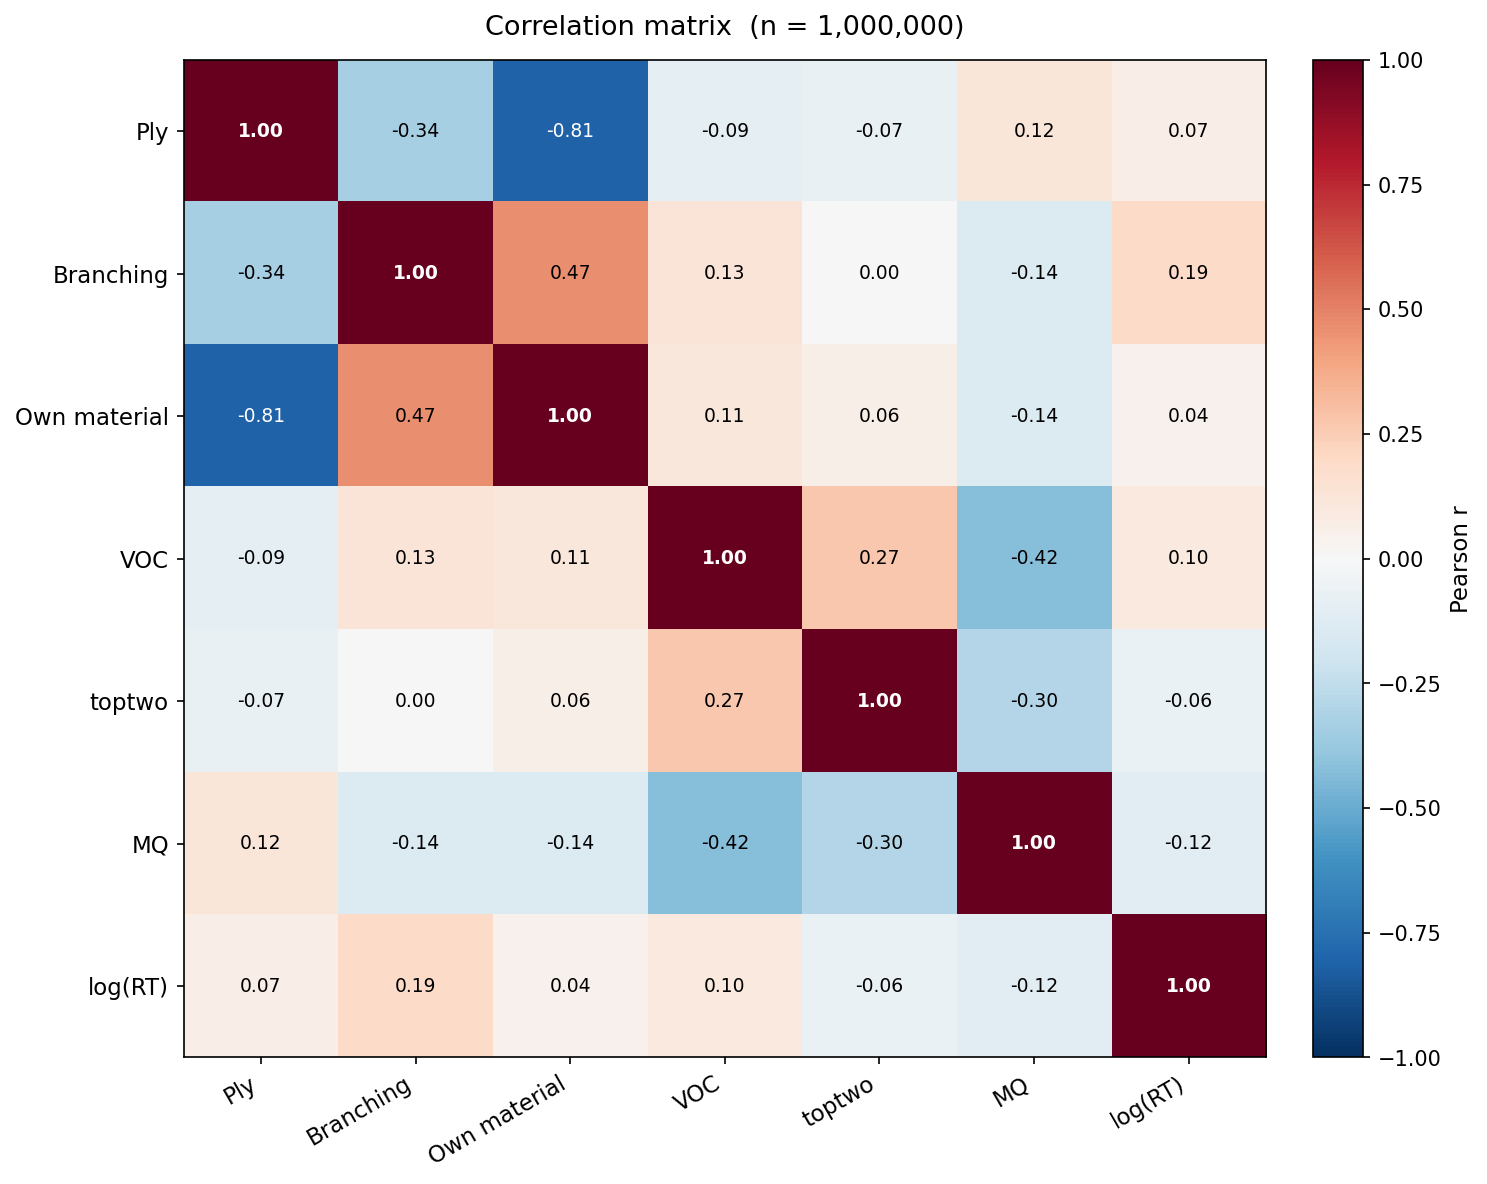
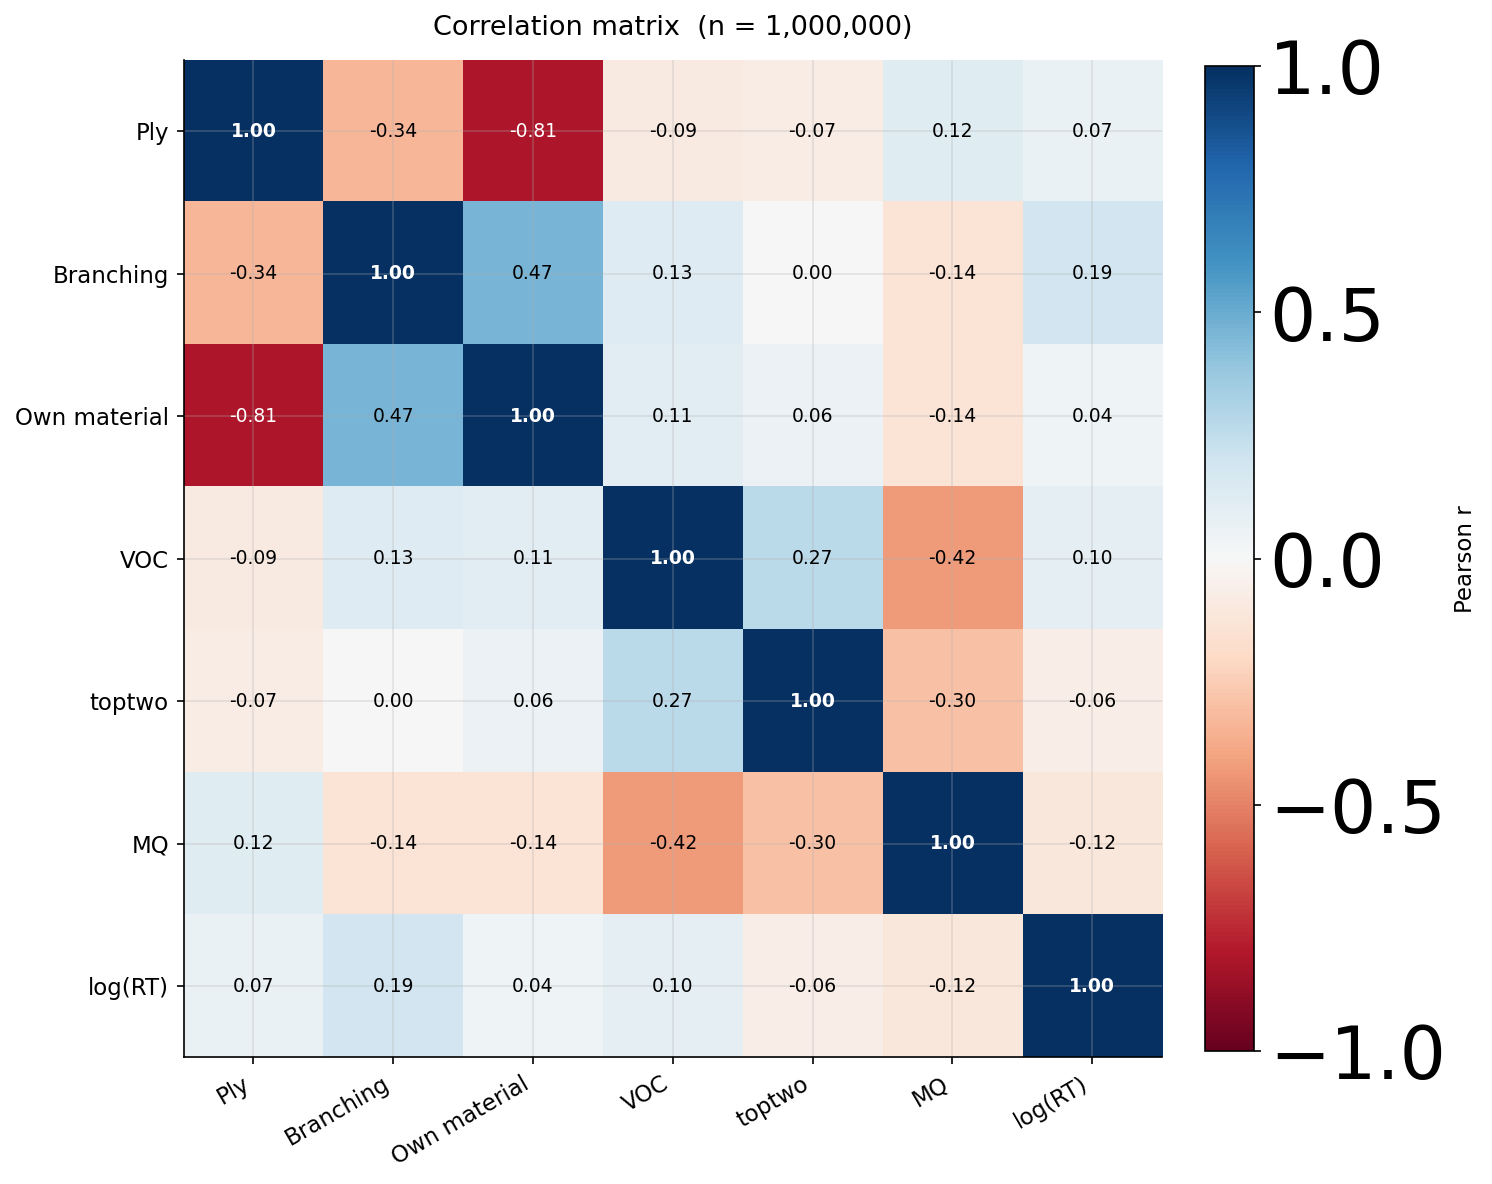
slides: flip corr matrix colors, table panel, bold headers, rewrite summary
- correlation_matrix: RdBu_r → RdBu (positive = blue, negative = red)
- Correlation matrix right panel: bulleted divs → color-coded r table
  (blue = positive, red shades = negative magnitude)
- Engine quantities table: bold headers, max-w-2xl to reduce width
- Summary: key results with emoji markers first; open questions box
  highlighted in amber including VOC_budget vs depth as explicit next step

diff --git a/human_analytics/voc_mq_analysis.py b/human_analytics/voc_mq_analysis.py
@@ -146,7 +146,7 @@ def plot_correlation_matrix(conn: duckdb.DuckDBPyConnection, output_path: str) -
 
     apply_poster_style()
     fig, ax = plt.subplots(figsize=(10, 8))
-    im = ax.imshow(corr.values, cmap="RdBu_r", vmin=-1, vmax=1, aspect="auto")
+    im = ax.imshow(corr.values, cmap="RdBu", vmin=-1, vmax=1, aspect="auto")
     ax.set_xticks(range(n_vars))
     ax.set_xticklabels(corr.columns, fontsize=11, rotation=30, ha="right")
     ax.set_yticks(range(n_vars))

diff --git a/human_analytics/presentations/lmcos-overview/slides.md b/human_analytics/presentations/lmcos-overview/slides.md
@@ -146,26 +146,26 @@ math: katex
 
 # What the engine gives us
 
-<table class="text-xs w-full mt-6 border-collapse">
+<table class="text-xs max-w-2xl mt-6 border-collapse">
   <thead>
     <tr class="border-b border-gray-300">
-      <th class="text-left py-2 pr-6 font-semibold">Quantity</th>
-      <th class="text-left py-2 pr-6 font-semibold">Formula</th>
-      <th class="text-left py-2 font-semibold">Interpretation</th>
+      <th class="text-left py-2 pr-5 font-bold">Quantity</th>
+      <th class="text-left py-2 pr-5 font-bold">Formula</th>
+      <th class="text-left py-2 font-bold">Interpretation</th>
     </tr>
   </thead>
   <tbody class="text-[11px] opacity-90">
-    <tr><td class="py-1.5 pr-6 font-mono">e_win_best</td><td class="pr-6">V<sub>deep</sub>(a<sub>deep</sub>)</td><td>Win prob of objectively best move</td></tr>
-    <tr><td class="py-1.5 pr-6 font-mono">e_win_second_best</td><td class="pr-6">V<sub>deep</sub>(rank-2)</td><td>Win prob of second-best move</td></tr>
-    <tr><td class="py-1.5 pr-6 font-mono">e_win_taken</td><td class="pr-6">V<sub>deep</sub>(move played)</td><td>Win prob of the actual move</td></tr>
+    <tr><td class="py-1.5 pr-5 font-mono">e_win_best</td><td class="pr-5">V<sub>deep</sub>(a<sub>deep</sub>)</td><td>Win prob of objectively best move</td></tr>
+    <tr><td class="py-1.5 pr-5 font-mono">e_win_second_best</td><td class="pr-5">V<sub>deep</sub>(rank-2)</td><td>Win prob of second-best move</td></tr>
+    <tr><td class="py-1.5 pr-5 font-mono">e_win_taken</td><td class="pr-5">V<sub>deep</sub>(move played)</td><td>Win prob of the actual move</td></tr>
     <tr class="border-t border-gray-200 text-accent font-semibold">
-      <td class="py-1.5 pr-6 font-mono">VOC</td><td class="pr-6">e_win_best − V<sub>deep</sub>(a<sub>shallow</sub>)</td><td>Gain from deep over shallow best &nbsp;(≥ 0)</td>
+      <td class="py-1.5 pr-5 font-mono">VOC</td><td class="pr-5">e_win_best − V<sub>deep</sub>(a<sub>shallow</sub>)</td><td>Gain from deep over shallow best &nbsp;(≥ 0)</td>
     </tr>
     <tr class="text-accent font-semibold">
-      <td class="py-1.5 pr-6 font-mono">MQ</td><td class="pr-6">e_win_taken − e_win_best</td><td>How suboptimal was the move played &nbsp;(≤ 0)</td>
+      <td class="py-1.5 pr-5 font-mono">MQ</td><td class="pr-5">e_win_taken − e_win_best</td><td>How suboptimal was the move played &nbsp;(≤ 0)</td>
     </tr>
     <tr class="text-accent font-semibold">
-      <td class="py-1.5 pr-6 font-mono">toptwo</td><td class="pr-6">e_win_best − e_win_second_best</td><td>How decisive is the best move &nbsp;(≥ 0)</td>
+      <td class="py-1.5 pr-5 font-mono">toptwo</td><td class="pr-5">e_win_best − e_win_second_best</td><td>How decisive is the best move &nbsp;(≥ 0)</td>
     </tr>
   </tbody>
 </table>
@@ -246,14 +246,27 @@ math: katex
 
 # Correlation matrix
 
-<div class="grid grid-cols-[62fr_38fr] gap-8 items-center h-[calc(100%-3.5rem)]">
+<div class="grid grid-cols-[60fr_40fr] gap-8 items-center h-[calc(100%-3.5rem)]">
   <img class="w-full object-contain max-h-[72vh]" src="/figures/correlation_matrix.png" />
-  <div class="space-y-3 text-xs leading-relaxed">
-    <div class="font-semibold text-sm mb-2">n = 1,000,000 · Pearson r</div>
-    <div class="p-2 bg-neutral-soft rounded text-[11px]"><b>VOC ↔ MQ</b> r = −0.42 — positions where deep search helps are also ones where humans blunder more</div>
-    <div class="p-2 bg-neutral-soft rounded text-[11px]"><b>toptwo ↔ MQ</b> r = −0.30 — decisive positions penalise errors more heavily</div>
-    <div class="p-2 bg-neutral-soft rounded text-[11px]"><b>Ply ↔ own material</b> r = −0.81 — as expected: pieces leave the board over the game</div>
-    <div class="p-2 bg-neutral-soft rounded text-[11px]"><b>log(RT)</b> correlates positively with branching (0.20) and VOC (0.10); negatively with toptwo (−0.06) and MQ (−0.12)</div>
+  <div>
+    <div class="text-[10px] font-bold uppercase tracking-widest opacity-50 mb-2">n = 1,000,000 · Pearson r</div>
+    <table class="text-xs w-full border-collapse">
+      <thead>
+        <tr class="border-b border-gray-200">
+          <th class="text-left py-1 pr-3 font-bold">Pair</th>
+          <th class="text-right py-1 font-bold">r</th>
+        </tr>
+      </thead>
+      <tbody>
+        <tr><td class="py-1 pr-3 opacity-80">Ply ↔ own material</td><td class="text-right font-mono text-red-500 font-semibold">−0.81</td></tr>
+        <tr><td class="py-1 pr-3 opacity-80">VOC ↔ MQ</td><td class="text-right font-mono text-red-500 font-semibold">−0.42</td></tr>
+        <tr><td class="py-1 pr-3 opacity-80">toptwo ↔ MQ</td><td class="text-right font-mono text-red-400 font-semibold">−0.30</td></tr>
+        <tr class="border-t border-gray-100"><td class="py-1 pr-3 opacity-80">branching ↔ log(RT)</td><td class="text-right font-mono text-blue-600 font-semibold">+0.20</td></tr>
+        <tr><td class="py-1 pr-3 opacity-80">VOC ↔ log(RT)</td><td class="text-right font-mono text-blue-400 font-semibold">+0.10</td></tr>
+        <tr><td class="py-1 pr-3 opacity-80">MQ ↔ log(RT)</td><td class="text-right font-mono text-red-300 font-semibold">−0.12</td></tr>
+        <tr><td class="py-1 pr-3 opacity-80">toptwo ↔ log(RT)</td><td class="text-right font-mono text-red-300 font-semibold">−0.06</td></tr>
+      </tbody>
+    </table>
   </div>
 </div>
 
@@ -261,26 +274,25 @@ math: katex
 
 # Summary
 
-<div class="mt-6 max-w-3xl space-y-4">
-  <div class="grid grid-cols-2 gap-6 text-sm">
-    <div class="p-3 bg-neutral-soft border-l-2 border-accent">
-      <b class="text-accent text-xs uppercase tracking-wider">Confirmed</b>
-      <ul class="mt-2 list-disc pl-4 space-y-1 text-xs">
-        <li>log(RT) ∝ VOC &nbsp;—&nbsp; r = +0.096 ✓</li>
-        <li>VOC spike at 0, right-skewed tail ✓</li>
-        <li>More clock → more thinking ✓</li>
-        <li>Branching & material drive deliberation ✓</li>
-      </ul>
-    </div>
-    <div class="p-3 bg-neutral-soft border-l-2 border-amber-500">
-      <b class="text-amber-700 text-xs uppercase tracking-wider">Open</b>
-      <ul class="mt-2 list-disc pl-4 space-y-1 text-xs">
-        <li>MQ–clock is negative within all ply tertiles</li>
-        <li>67% zero-VOC at depth=5 → need depth=15</li>
-        <li>E[ΔUC] (expected VOC) not yet computed</li>
-        <li>Scale to full 88M-position dataset</li>
-      </ul>
-    </div>
+<div class="mt-4 max-w-3xl space-y-4 text-sm">
+  <div class="p-3 bg-neutral-soft border-l-2 border-accent">
+    <b class="text-accent text-xs uppercase tracking-wider">Key results</b>
+    <ul class="mt-2 list-none space-y-1 text-xs">
+      <li>✓ <b>log(RT) ∝ VOC</b> — r = +0.096 (n=1M): humans think longer when computation pays</li>
+      <li>✓ <b>Branching is the strongest RT predictor</b> — r = +0.20; more options → more deliberation</li>
+      <li>✓ <b>Decisive positions → faster play</b> — toptwo ↔ log(RT) = −0.06, contrasting VOC</li>
+      <li>✓ <b>VOC ↔ MQ = −0.42</b> — positions where thinking matters are also where humans err</li>
+      <li>⚠ <b>MQ–clock is negative</b> (within all ply tertiles) — more time → worse depth-5 MQ; likely a depth artefact and VOC-mediated selection effect</li>
+    </ul>
+  </div>
+  <div class="p-3 bg-amber-50 border-l-2 border-amber-400">
+    <b class="text-amber-700 text-xs uppercase tracking-wider">Open questions</b>
+    <ul class="mt-2 list-none space-y-1 text-xs text-amber-900">
+      <li>? <b>VOC_depth vs VOC_budget</b> — does a node-budget limit change correlations with branching / material?</li>
+      <li>? <b>Depth=15</b> — 67% zero-VOC at depth=5; deeper search needed to replicate Russek et al. fully</li>
+      <li>? <b>E[ΔUC]</b> — expected VOC over the top-5 depth-1 candidates (explains RT even when ΔUC=0)</li>
+      <li>? <b>Full 88M dataset</b> — current analyses are on 1M sample</li>
+    </ul>
   </div>
 </div>
 
